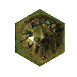
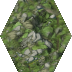
files

diff --git a/code/InterfacePartie.java b/code/InterfacePartie.java
@@ -1,8 +1,7 @@
 import java.awt.Choice;
 import java.awt.Color;
+import java.awt.Dimension;
 import java.awt.Font;
-import java.util.Map;
-import java.awt.Graphics;
 import javax.swing.ImageIcon;
 import javax.swing.JButton;
 import javax.swing.JFrame;
@@ -33,27 +32,142 @@ import javax.swing.JOptionPane;
 public class InterfacePartie extends InterfacePrincipal implements ActionListener, MouseListener {
 
 
-    public InterfacePartie(String pseudo1, String pseudo2, String equipe1, String equipe2, int mode_jeu){
+    protected JLabel pseudo_joueur1, unite_joueur1, label_unite_joueur1;
+    protected JLabel pseudo_joueur2, unite_joueur2, label_unite_joueur2;
+    protected ImageIcon image_unite1, image_unite2;
+    protected Plateau plateau;
+    protected Controlleur controleur;
 
 
-        //JLabel pseudo_joueur2;
+    public InterfacePartie(String pseudo1, String pseudo2, String equipe1,
+                           String equipe2, int mode_jeu)
+    {
+
+        Dimension dimension_image;
+        plateau = new Plateau(new ListeTerrain());
+        controleur = new Controlleur();
 
         ajouterFrame("Wargame - Jeu", 1400, 900);
         frame.getContentPane().setBackground(Color.WHITE);
         frame.getContentPane().addMouseListener(this);
-        ajouterImage("img/plateau.jpg");
+        super.ajouterImage("img/plateau.jpg");
         ajouterPanel(1400, 900);
 
-        JLabel pseudo_joueur1 = new JLabel("Joueur 1 :");
-        ajouterTexte(pseudo_joueur1, 1, 98, 100, 100, 15, Color.BLACK);
+        pseudo_joueur1 = new JLabel("Nom : " + pseudo1);
+        unite_joueur1 = new JLabel("Unite : " + equipe1);
+        image_unite1 = new ImageIcon(getCheminImageUnite(equipe1));
+        label_unite_joueur1 = new JLabel(image_unite1);
+        dimension_image = label_unite_joueur1.getPreferredSize();
+        ajouterInfoJoueur(pseudo_joueur1, unite_joueur1, label_unite_joueur1,
+                          1, 98, 1, 125, 100, 225, dimension_image.width,
+                          dimension_image.height);
 
-        
+
+
+        pseudo_joueur2 = new JLabel("Nom : " + pseudo2);
+        ajouterTexte(pseudo_joueur2, 1200, 98, 100, 100, 15, Color.BLACK);
+
+
+        afficherPlateau();
 
 
 
     }
 
 
+
+    private void afficherPlateau()
+    {
+
+        ImageIcon image_terrain;
+        JLabel label_terrain ;
+        Dimension dimensions;
+        int[] points;
+
+        for(int i=0; i<plateau.getNombreLigne(); i++)
+            for(int j=0; j<plateau.getNombreColonne(); j++)
+                {
+                    points = controleur.ConvertirCaseEnPoint(i,j);
+                    image_terrain = new ImageIcon(getCheminImageTerrain(plateau.getTerrains()[i][j]));
+                    label_terrain = new JLabel(image_terrain);
+                    dimensions = label_terrain.getPreferredSize();
+                    label_terrain.setBounds(points[0], points[1], dimensions.width, dimensions.height);
+                    panel.add(label_terrain);
+                }
+    }
+
+    private void ajouterInfoJoueur(JLabel pseudo_joueur, JLabel unite_joueur,
+                                   JLabel label_unite_joueur, int x1, int y1,
+                                   int x2, int y2, int x3, int y3, int largeur,
+                                   int hauteur)
+    {
+        ajouterTexte(pseudo_joueur, x1, y1, 100, 100, 13, Color.BLACK);
+        ajouterTexte(unite_joueur, x2, y2, 100, 100, 13, Color.BLACK);
+
+        label_unite_joueur.setBounds(x3, y3, largeur, hauteur);
+        panel.add(label_unite_joueur);
+    }
+
+
+    private String getCheminImageUnite(String unite)
+    {
+        if(unite != null)
+        {
+            if(unite.equals("Archer"))
+                return "img/archer.png";
+            if(unite.equals("I. legere"))
+                return "img/i_leger.png";
+            if(unite.equals("I. lourde"))
+                return "img/i_lourd.png";
+            if(unite.equals("Mage"))
+                return "img/mage.png";
+            if(unite.equals("Chevalier"))
+                return "img/chevalier.png";
+        }
+
+        return (String) null;
+
+    }
+
+
+    private String getCheminImageTerrain(Case_hexagonales c)
+    {
+        if(c instanceof Colline)
+            return "img/colline.png";
+        else if(c instanceof Eau_profonde)
+            return "img/eau.png";
+        else if(c instanceof Foret)
+            return "img/foret.png";
+        else if(c instanceof Forteresse)
+            return "img/forteresse.png";
+        else if(c instanceof Montagne)
+            return "img/montagne.png";
+        else if(c instanceof Plaine)
+            return "img/plaine.png";
+        else if(c instanceof Village)
+            return "img/villag.png";
+        else
+            return (String) null;
+    }
+
+    /*public void ajouterImage()
+    {
+
+        BufferedImage image = ImageIO.read(new File("./java.jpg"));
+        JLabel label = new JLabel(new ImageIcon(image));
+        panel.add(label);
+
+        // main window
+        JFrame.setDefaultLookAndFeelDecorated(true);
+        JFrame frame = new JFrame("JPanel Example");
+        frame.setDefaultCloseOperation(JFrame.EXIT_ON_CLOSE);
+
+        // add the Jpanel to the main window
+        frame.add(panel);
+
+        frame.pack();
+        frame.setVisible(true);
+    }*/
 
     @Override
     public void mousePressed(MouseEvent e)

diff --git a/code/Plateau.java b/code/Plateau.java
@@ -12,9 +12,9 @@ import java.util.Scanner;
 
 public class Plateau implements Serializable{
 
-	protected final int nb_ligne = 12;
-	protected final int nb_colonne = 12;
-	protected Case_hexagonales t_jeu[][] = new Case_hexagonales[12][12];
+	protected final int nb_ligne = 10;
+	protected final int nb_colonne = 10;
+	protected Case_hexagonales t_jeu[][] = new Case_hexagonales[nb_ligne][nb_colonne];
 	protected Equipe equipe1;
 	protected Equipe equipe2;
 	protected ArrayList<Integer> coup_ligne = new ArrayList<Integer>();
@@ -53,10 +53,25 @@ public class Plateau implements Serializable{
 		}
 
 
+	public int getNombreLigne()
+	{
+		return nb_ligne;
+	}
+
+	public int getNombreColonne()
+	{
+		return nb_colonne;
+	}
+
+	public Case_hexagonales[][] getTerrains()
+	{
+		return t_jeu;
+	}
+
 	public void AfficheTerrain() {
 	// Pour afficher les terrains, remplacer avec des coordonn�es et des images
-		for(int i=0;i<12;i++) {
-			for(int j=0;j<12;j++) {
+		for(int i=0;i<1;i++) {
+			for(int j=0;j<10;j++) {
 				if(this.t_jeu[i][j] instanceof Colline)
 					System.out.print(1);
 				else if(this.t_jeu[i][j] instanceof Eau_profonde)

diff --git a/code/Controlleur.java b/code/Controlleur.java
@@ -1,0 +1,61 @@
+import java.awt.Point;
+
+
+public class Controlleur
+{
+
+    public Controlleur()
+    {
+
+    }
+
+
+  public int[] ConvertirCaseEnPoint(int ligne, int col){
+	  int coordonnees[] = {0,0};
+	  if(ligne%2==0)
+	  {
+		  coordonnees[0]=12+ col*60;
+		  coordonnees[1]=65+ ligne*50;
+	  }
+	  else
+	  {
+		  coordonnees[0]=42+ col*60;
+		  coordonnees[1]=115+ (ligne-1)*50;
+	  }
+	  return coordonnees;
+  }
+
+  public int[] ConvertirCoordonneesEnCase(int x, int y){
+	  int coordonnees[] = {0,0};
+	  int i,j;
+	  for(i=0;i<12;i++)
+	  {
+		  for(j=0;j<12;j++)
+		  {
+			  if(i%2==0)
+			  {
+				  if ((x>=(12 + 60*i) && x<=(70 +60*i)  && y>=(80+50*j) && y<=(112+50*j) ))
+				  {
+					coordonnees[0]=i;
+					coordonnees[1]=j;
+					return coordonnees;
+				  }
+			  }
+			  else
+			  {
+				  if ((x>=(42 + 60*i) && x<=(100 +60*i)  && y>=(130+50*j) && y<=(162+50*j) ))
+				  {
+					coordonnees[0]=i;
+					coordonnees[1]=j;
+					return coordonnees;
+				  }
+			  }
+		  }
+	  }
+	  return coordonnees;
+  }
+
+
+
+
+}
